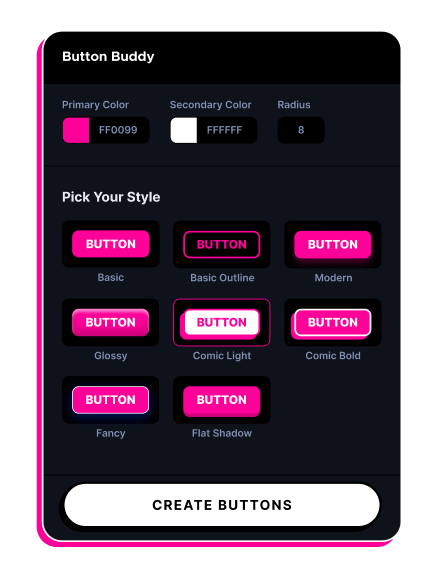
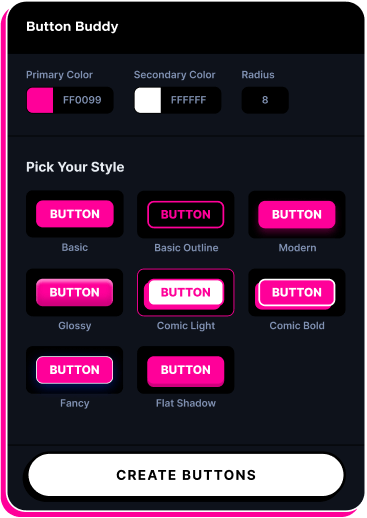
3d card effect and responsive upgrades

diff --git a/website/src/components/card/_card.scss b/website/src/components/card/_card.scss
@@ -3,6 +3,7 @@
   background-color: $color-black;
   border-radius: px-to-rem(12);
   color: $color-wild-blue-yonder;
+  transform-style: preserve-3d;
 
   &--large {
     --card-content-v-padding: #{pad(large)};
@@ -19,6 +20,7 @@
   &__content {
     padding: var(--card-content-v-padding, #{pad(xsmall)}) 0;
     text-align: center;
+    transform: translateZ(50px);
   }
 
   &__info {

diff --git a/website/src/index.js b/website/src/index.js
@@ -2,3 +2,4 @@ import 'focus-visible';
 import './components/ui-form/uiForm';
 import './components/tutorial/tutorial';
 import './components/newsletter/subscribe';
+import './components/card/3dcard';

diff --git a/website/src/components/card/3dcard.js b/website/src/components/card/3dcard.js
@@ -1,0 +1,8 @@
+import VanillaTilt from 'vanilla-tilt';
+
+const cards = document.querySelectorAll('.js-3d-card');
+
+VanillaTilt.init(cards, {
+  reverse: true,
+  max: 10,
+});

diff --git a/website/src/objects/button-showcase/_button-showcase.scss b/website/src/objects/button-showcase/_button-showcase.scss
@@ -24,6 +24,7 @@
     display: grid;
     grid-template-columns: repeat(5, 1fr);
     margin-top: px-to-rem(72);
+    justify-items: center;
   }
 
   &__col {
